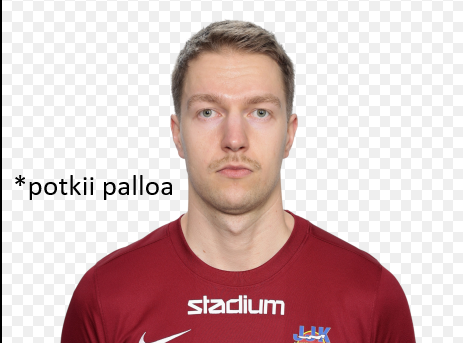
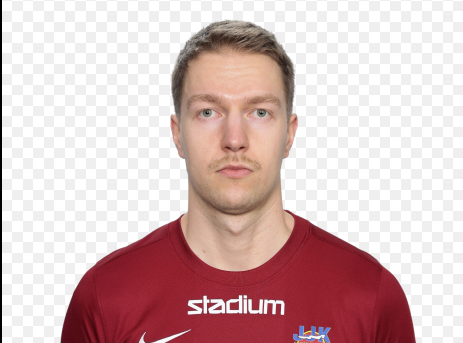
Write copies: 1 on every card

Changed region(s): [[0.0302, 0.4956, 0.3931, 0.5831]]

diff --git a/cards.js b/cards.js
@@ -16,73 +16,81 @@
 // ============================================================
 
 const CARDS = [
-{ name: "Äijien maailmanloppu", text: "Kaikki alkavat juoda. Lopettaa saa vasta, kun oikealla puolella istuva pelaaja lopettaa. (Vesiputous)", image: "maailmanloppu.png" },
+{ name: "Äijien maailmanloppu", text: "Kaikki alkavat juoda. Lopettaa saa vasta, kun oikealla puolella istuva pelaaja lopettaa. (Vesiputous)", image: "maailmanloppu.png", copies: 1 },
 
-{ name: "Turaani", text: "Suu napsaa, tarttee tapsaa. Juo valitsemasi pelaajan kanssa yksi (1) shotti.", image: "Turaani.png" },
+{ name: "Turaani", text: "Suu napsaa, tarttee tapsaa. Juo valitsemasi pelaajan kanssa yksi (1) shotti.", image: "Turaani.png", copies: 1 },
 
-{ name: " ", text: "Tarjoa janoiselle pelaajalle yksi (1) kulaus omaa juomaasi. Peri häneltä kaksi (2) kulausta.", image: "koronkiskuri.png" },
+{ name: " ", text: "Tarjoa janoiselle pelaajalle yksi (1) kulaus omaa juomaasi. Peri häneltä kaksi (2) kulausta.", image: "koronkiskuri.png", copies: 1 },
 
-{ name: "Röhnääjä", text: "Valitse nukkumapaikka.", image: "röhnääjä.jpg" },
+{ name: "Röhnääjä", text: "Valitse nukkumapaikka.", image: "röhnääjä.jpg", copies: 1 },
 
-{ name: "Totuus noussut ilmiöksi", text: "Kerro jokin väite. Pelaajat, joiden mielestä puhut totta, nostavat kätensä. Kerro sitten, puhuitko totta. Väärin äänestäneet juovat.", image: "Totuus noussut ilmiöksi.png" },
+{ name: "Totuus noussut ilmiöksi", text: "Kerro jokin väite. Pelaajat, joiden mielestä puhut totta, nostavat kätensä. Kerro sitten, puhuitko totta. Väärin äänestäneet juovat.", image: "Totuus noussut ilmiöksi.png", copies: 1 },
 
-{ name: "Häyhä", text: "Vastapäätäsi istuva pelaaja peruuttaa seinää vasten. Jos osut häntä päähän pingispallolla, hän juo.", image: "häyhä.png" },
+{ name: "Häyhä", text: "Vastapäätäsi istuva pelaaja peruuttaa seinää vasten. Jos osut häntä päähän pingispallolla, hän juo.", image: "häyhä.png", copies: 1 },
 
-{ name: "Kuka näin on sanonut?", text: "Sano tunnettu lausahdus. Lausujan arvannut pelaaja ei juo. Muut juovat.", image: "kuka.mp4" },
+{ name: "Kuka näin on sanonut?", text: "Sano tunnettu lausahdus. Lausujan arvannut pelaaja ei juo. Muut juovat.", image: "kuka.mp4", copies: 1 },
 
-{ name: " ", text: "Sinä vs Niki jalkapallossa. Häviäjä juo kolme (3) huikkaa.", image: "niki.png" },
+{ name: " ", text: "Sinä vs Niki jalkapallossa. Häviäjä juo kolme (3) huikkaa.", image: "niki.png", copies: 1 },
 
-{ name: " ", text: "Anna vasemmalla puolellasi istuvalle pelaajalle yksi kulaus omaa juomaasi.", image: "imetän.jpg" },
+{ name: " ", text: "Anna vasemmalla puolellasi istuvalle pelaajalle yksi kulaus omaa juomaasi.", image: "imetän.jpg", copies: 1 },
 
-{ name: "Tuplilla aloitat tytyilyn", text: " ", image: "tyty.mp4", postId: true },
+{ name: "Tuplilla aloitat tytyilyn", text: " ", image: "tyty.mp4", postId: true, copies: 1 },
 
-{ name: "Taikuri", text: "Kerro jotain, mitä et ole tehnyt tänä vuonna. Pelaajat, jotka ovat tehneet sen, juovat.", image: "velho.png" },
+{ name: "Taikuri", text: "Kerro jotain, mitä et ole tehnyt tänä vuonna. Pelaajat, jotka ovat tehneet sen, juovat.", image: "velho.png", copies: 1 },
 
-{ name: " ", text: "Glunksauta juomasi loppuun.", image: "glunks.png" },
+{ name: " ", text: "Glunksauta juomasi loppuun.", image: "glunks.png", copies: 1 },
 
-{ name: "Oon aika big", text: "Kumpi painaa enemmän: sinä vai vasemmalla puolellasi istuva pelaaja? Pienempi juo.", image: "big.png" },
+{ name: "Oon aika big", text: "Kumpi painaa enemmän: sinä vai vasemmalla puolellasi istuva pelaaja? Pienempi juo.", image: "big.png", copies: 1 },
 
-{ name: "Rotutohtori", text: "Mittaa oikealla ja vasemmalla puolellasi istuvien pelaajien nenät. Isompi nenä juo kolme (3) huikkaa.", image: "tohtori.png" },
+{ name: "Rotutohtori", text: "Mittaa oikealla ja vasemmalla puolellasi istuvien pelaajien nenät. Isompi nenä juo kolme (3) huikkaa.", image: "tohtori.png", copies: 1 },
 
-{ name: "Homo neekeri", text: "Juo, jos nauroit.", image: "jani.jpg", textDelay: 5000 },
+{ name: "Homo neekeri", text: "Juo, jos nauroit.", image: "jani.jpg", textDelay: 5000, copies: 1 },
 
-{ name: "Työtön", text: "Kerää vierustovereiltasi toimeentulotukea. (Yksi huikka molemmilta.)", image: "vastaan.png" },
+{ name: "Työtön", text: "Kerää vierustovereiltasi toimeentulotukea. (Yksi huikka molemmilta.)", image: "vastaan.png", copies: 1 },
 
-{ name: "Huhhuh pitkä teksti", text: "Lue yksi lause kirjasta sönköttämättä tai juo kolme (3) huikkaa.", image: "kirja.png" },
+{ name: "Huhhuh pitkä teksti", text: "Lue yksi lause kirjasta sönköttämättä tai juo kolme (3) huikkaa.", image: "kirja.png", copies: 1 },
 
-{ name: "Sääntö", text: "Aina kun puhut, sinun täytyy sanoa lopuksi \"wallah\". Sääntörikkomus: kolme (3) huikkaa. Kestää yhden (1) kierroksen ajan.", image: "wallah.png" },
+{ name: "Sääntö", text: " ", image: "", copies: 1 },
 
-{ name: "Employim", text: "Montako työpäivää teit tällä viikolla? Juo yhtä monta huikkaa.", image: "bää.jpg" },
+{ name: "kategoria", text: " ", image: "", copies: 1 },
 
-{ name: "Säätö-Sauli", text: "Arvioi vasemman pelaajan juoman paino kahden merkitsevän numeron tarkkudella. Jos arvaat oikein, hän juo (3) huikkaa.", image: "sauli.jpg" },
+{ name: "riimi", text: " ", image: "", copies: 1 },
 
-{ name: "Rankaisija", text: "Sinä juot yhden (1) kulauksen. Valitsemasi pelaaja juo viisi (5).", image: "rankaisija.png" },
+{ name: "kysymysmestari", text: " ", image: "", copies: 1 },
 
-{ name: " ", text: "Sulje silmäsi ja valitse yksi pelaaja tuomaan käteesi jokin esine. Jos arvaat esineen oikein ensimmäisellä yrittämällä, pelaaja juo kolme (3) huikkaa. Jos arvaat väärin, juot kolme (3) huikkaa.", image: "yoda.png" },
+{ name: "tarina", text: " ", image: "", copies: 1 },
 
-{ name: "Köyhät kyykkyyn!", text: "Kummalla on kalliimpi juoma: Sinulla vai vasemmalla pelaajalla? Halvempi juo.", image: "kyykkyyn.png" },
+{ name: "Employim", text: "Montako työpäivää teit tällä viikolla? Juo yhtä monta huikkaa.", image: "bää.jpg", copies: 1 },
 
-{ name: "bing bing wahoo!", text: "Montako erilaista tietokonepeliä pelasit tällä viikolla? Kaikki juovat yhtä monta kulausta.", image: "bing.png" },
+{ name: "Säätö-Sauli", text: "Arvioi vasemman pelaajan juoman paino kahden merkitsevän numeron tarkkudella. Jos arvaat oikein, hän juo (3) huikkaa.", image: "sauli.jpg", copies: 1 },
 
-{ name: "Ryys", text: "Kaikki ottavat yhden (1) huikan.", image: "ryys.png" },
+{ name: "Rankaisija", text: "Sinä juot yhden (1) kulauksen. Valitsemasi pelaaja juo viisi (5).", image: "rankaisija.png", copies: 1 },
 
-{ name: " ", text: "Kumpi söi viimeksi: Sinä vai vasen pelaaja? Viimeksi glommannut ottaa (3) huikkaa.", image: "glom.png" },
+{ name: " ", text: "Sulje silmäsi ja valitse yksi pelaaja tuomaan käteesi jokin esine. Jos arvaat esineen oikein ensimmäisellä yrittämällä, pelaaja juo kolme (3) huikkaa. Jos arvaat väärin, juot kolme (3) huikkaa.", image: "yoda.png", copies: 1 },
 
-{ name: " ", text: "Pelaaja, joka on viimeksi ulostanut muualle kuin vessanpönttöön, juo kolme (3) kulausta.", image: "pajeet.png" },
+{ name: "Köyhät kyykkyyn!", text: "Kummalla on kalliimpi juoma: Sinulla vai vasemmalla pelaajalla? Halvempi juo.", image: "kyykkyyn.png", copies: 1 },
 
-{ name: "Juo vettä", text: "Juo vettä.", image: "vettä.mp4" },
+{ name: "bing bing wahoo!", text: "Montako erilaista tietokonepeliä pelasit tällä viikolla? Kaikki juovat yhtä monta kulausta.", image: "bing.png", copies: 1 },
 
-{ name: "Matut vittuun", text: "Kumpi on käynyt ulkomailla viimeksi: sinä vai vasemmalla puolellasi istuva pelaaja? Viimeisimpänä ulkomailla käynyt juo.", image: "gandalf.mp4" },
+{ name: "Ryys", text: "Kaikki ottavat yhden (1) huikan.", image: "ryys.png", copies: 1 },
 
-{ name: " ", text: "Valitse vanha kamu, jonka kanssa juotte kolme (3) kulausta.", image: "kamu.mp4" },
+{ name: " ", text: "Kumpi söi viimeksi: Sinä vai vasen pelaaja? Viimeksi glommannut ottaa (3) huikkaa.", image: "glom.png", copies: 1 },
 
-{ name: "Nauti kehostasi ja itsestäsi", text: "Voit nyt käydä tyydyttämässä tarpeesi.", image: "nauti.jpg" },
+{ name: " ", text: "Pelaaja, joka on viimeksi ulostanut muualle kuin vessanpönttöön, juo kolme (3) kulausta.", image: "pajeet.png", copies: 1 },
 
-{ name: "Ykäsonni", text: "Kumpi on vanhempi: sinä vai vasemmalla puolellasi istuva pelaaja? Nuorempi juo kolme (3) huikkaa. ", image: "ykä.png" },
+{ name: "Juo vettä", text: "Juo vettä.", image: "vettä.mp4", copies: 1 },
 
-{ name: "Palantir", text: "Ennusta, juoko vasemmalla puolellasi istuva pelaaja seuraavalla vuorollaan? Jos ennustat oikein, hän juo tuplasti. Muuten sinä juot.", image: "ennusta.png" },
+{ name: "Matut vittuun", text: "Kumpi on käynyt ulkomailla viimeksi: sinä vai vasemmalla puolellasi istuva pelaaja? Viimeisimpänä ulkomailla käynyt juo.", image: "gandalf.mp4", copies: 1 },
+
+{ name: " ", text: "Valitse vanha kamu, jonka kanssa juotte kolme (3) kulausta.", image: "kamu.mp4", copies: 1 },
+
+{ name: "Nauti kehostasi ja itsestäsi", text: "Voit nyt käydä tyydyttämässä tarpeesi.", image: "nauti.jpg", copies: 1 },
+
+{ name: "Ykäsonni", text: "Kumpi on vanhempi: sinä vai vasemmalla puolellasi istuva pelaaja? Nuorempi juo kolme (3) huikkaa. ", image: "ykä.png", copies: 1 },
+
+{ name: "Palantir", text: "Ennusta, juoko vasemmalla puolellasi istuva pelaaja seuraavalla vuorollaan? Jos ennustat oikein, hän juo tuplasti. Muuten sinä juot.", image: "ennusta.png", copies: 1 },
 
 
   // Special card: draw:true replaces the image with a canvas the player draws on.
-  { name: "Itävaltalainen maalari", text: "Piirrä jokin esine tästä huoneesta. Ensimmäisenä oikein arvannut pelaaja ei juo. Muut juovat.", draw: true },
+  { name: "Itävaltalainen maalari", text: "Piirrä jokin esine tästä huoneesta. Ensimmäisenä oikein arvannut pelaaja ei juo. Muut juovat.", draw: true, copies: 1 },
 ];